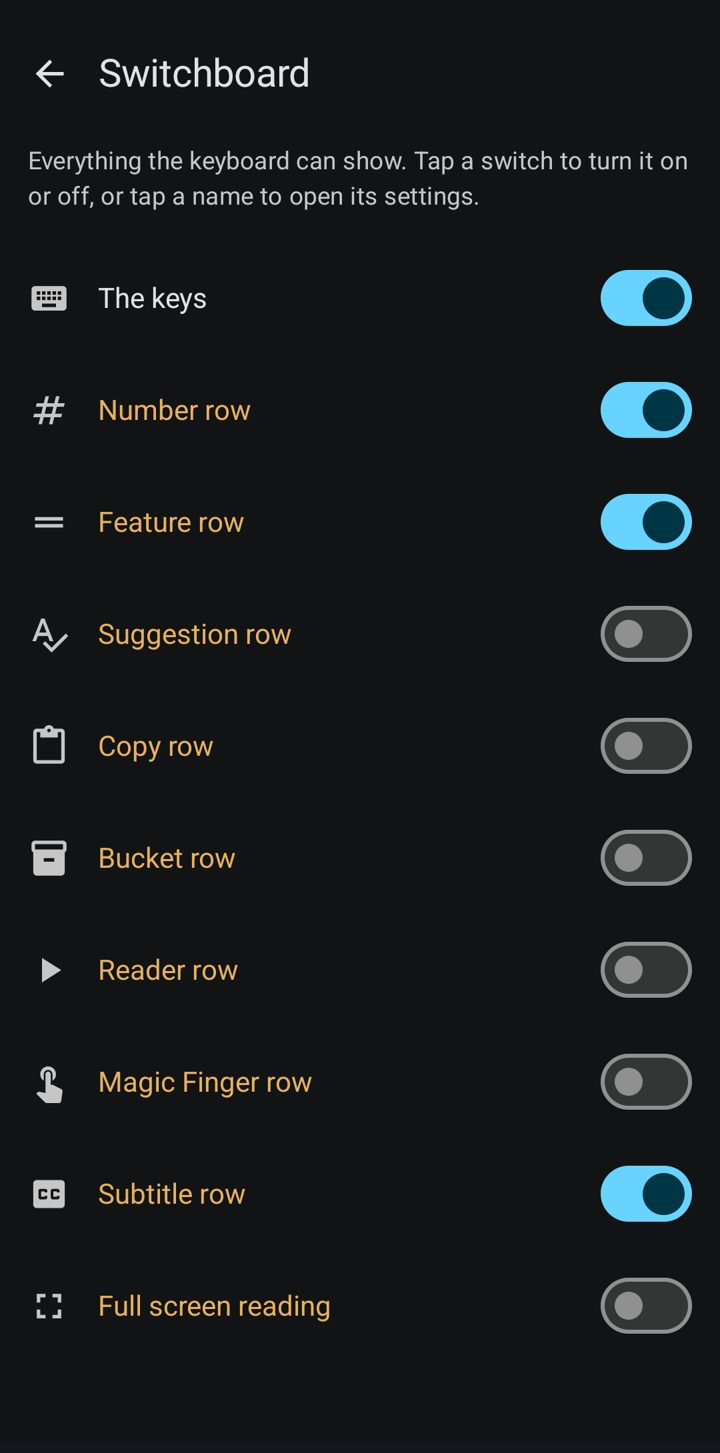
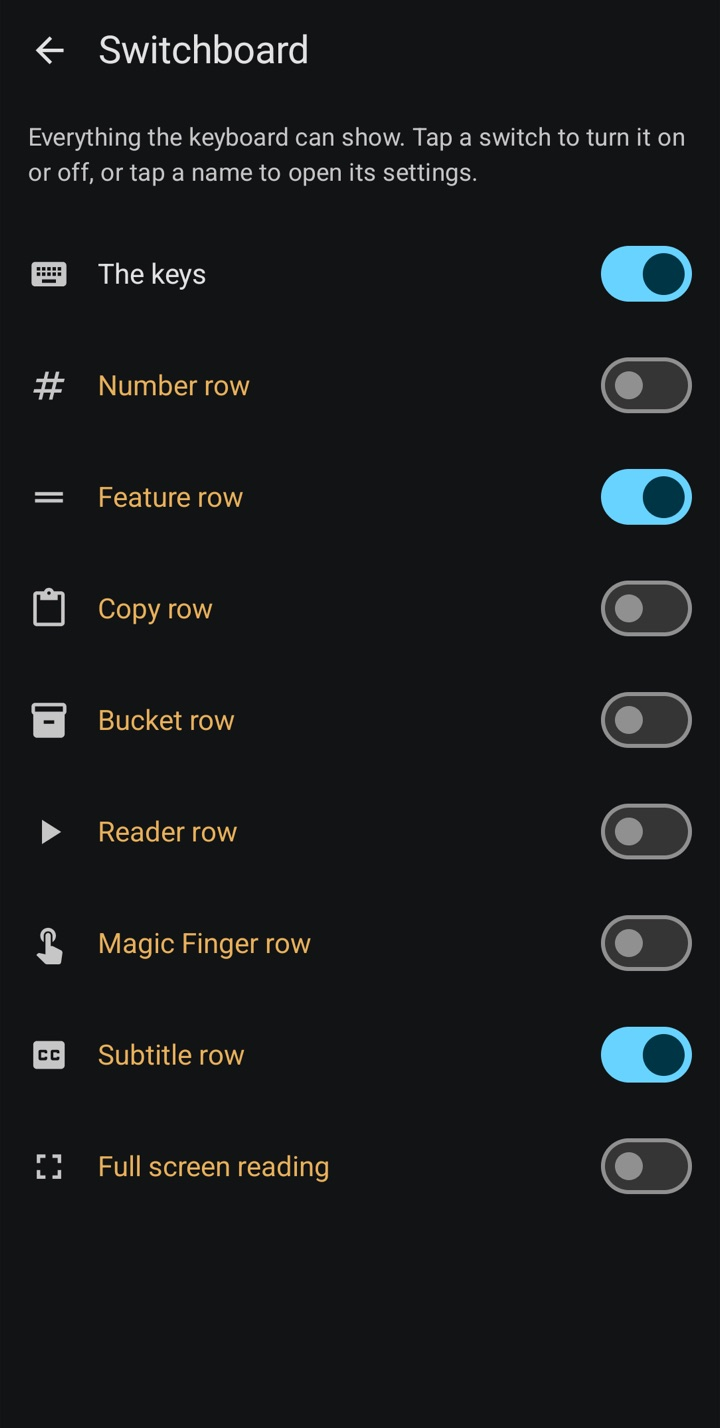
site: Auto prediction on the page, Switchboard picture of build 423 (no suggestion row switch)
Claude-Session: https://claude.ai/code/session_01NceKU9zW97FRmgJCXp2gXx

diff --git a/site/public/index.html b/site/public/index.html
@@ -81,7 +81,8 @@ footer{padding:40px 0 60px; color:var(--ink3); font-size:13.5px; border-top:1px 
 <div class="feat"><figure><img src="img/set-numrow.jpg" alt="Number row that types whole phrases" loading="lazy"></figure><div><h3>Number row that types whole phrases</h3><p>Each digit can carry a snippet: a symbol, a word, a whole sentence, typed with one long press.</p></div></div>
 <div class="feat"><figure><img src="img/set-reader.jpg" alt="It reads to you" loading="lazy"></figure><div><h3>It reads to you</h3><p>The speaker key reads what is on the screen aloud, with the current word lit in a subtitle row, on the spacebar, or full screen. Speed and text size are yours.</p></div></div>
 <div class="feat"><figure><img src="img/set-prompts.jpg" alt="Proofread and spell check" loading="lazy"></figure><div><h3>Proofread and spell check</h3><p>Ctrl+P proofreads, Ctrl+F reformats, and every Croatian dictation is checked for spelling before it is typed. You keep every wording of every prompt.</p></div></div>
-<div class="feat"><figure><img src="img/set-switch.jpg" alt="Everything in one switchboard" loading="lazy"></figure><div><h3>Everything in one switchboard</h3><p>The keys, the number row, the feature rows, the suggestion row, the copy row, the reader: one screen, one switch each.</p></div></div>
+<div class="feat"><figure><img src="img/set-switch.jpg" alt="Everything in one switchboard" loading="lazy"></figure><div><h3>Everything in one switchboard</h3><p>The keys, the number row, the feature rows, the copy row, the reader: one screen, one switch each. The prediction row is always there, so no key ever jumps.</p></div></div>
+<div class="feat"><figure><img src="img/set-predict.jpg" alt="Auto prediction" loading="lazy"></figure><div><h3>Auto prediction</h3><p>Word prediction in the language you are typing, Croatian or English, whatever the dictation key says. When the guesses are wrong, the AI key asks Claude for five words, on the model you choose: Haiku, Sonnet or Opus. Your corrections and the words it learned are on the same screen.</p></div></div>
 <div class="feat wide"><figure><img src="img/symbols.jpg" alt="Symbols, two pages" loading="lazy"></figure><div><h3>Symbols, two pages</h3><p>All the punctuation and symbols on two pages, one tap away from the letters.</p></div></div>
     </div>
   </div>
@@ -92,7 +93,7 @@ footer{padding:40px 0 60px; color:var(--ink3); font-size:13.5px; border-top:1px 
     <div class="eyebrow">And more</div>
     <h2>Small things that <em>save the day</em></h2>
     <div class="cards">
-<div class="card"><h3>Word prediction that learns you</h3><p>It learns the words you write, in Croatian and English separately. When you correct a word, it learns that it was a typo and offers what you meant next time; recent words rank above old ones.</p></div>
+<div class="card"><h3>Word prediction that learns you</h3><p>It learns the words you write, in Croatian and English separately. When you correct a word, it learns that it was a typo and offers what you meant next time; recent words rank above old ones. A word you fix in a dictation twice is fixed for you from then on.</p></div>
 <div class="card"><h3>Volume keys</h3><p>Hold volume up to record, hold volume down to press send. A quick tap still changes the volume.</p></div>
 <div class="card"><h3>Magic finger</h3><p>One key presses a button on the screen for you, like Send, found by its name.</p></div>
 <div class="card"><h3>History</h3><p>Every transcription is kept with its audio, and a recording cut short is saved, never lost.</p></div>
@@ -122,7 +123,7 @@ footer{padding:40px 0 60px; color:var(--ink3); font-size:13.5px; border-top:1px 
   <style>
     .mantra-bowl { --brass: #f3c97a; --glow: rgba(255, 196, 120, .45); --card: #292c2f; text-align: center; padding: 64px 16px; }
     .mantra-bowl h2 { margin: 0 0 26px; }
-    .mantra-bowl .stage { position: relative; display: grid; place-items: center; min-height: 380px; }
+    .mantra-bowl .stage { position: relative; display: grid; place-items: center; min-height: 380px; aspect-ratio: auto; background: none; overflow: visible; border-radius: 0; }
     .mantra-bowl .stage > * { grid-area: 1 / 1; transition: opacity .9s ease, transform .9s ease; }
     .mantra-bowl .bowl { background: none; border: 0; padding: 0; cursor: pointer; position: relative; color: inherit; font: inherit; -webkit-tap-highlight-color: transparent; }
     .mantra-bowl .bowl:focus-visible { outline: 2px solid var(--brass); outline-offset: 8px; border-radius: 24px; }

diff --git a/site/build.py b/site/build.py
@@ -6,7 +6,8 @@ screenshots through ADB and explain and ask for donations ... same principle").
 
     python3 site/build.py
 
-Screenshots in public/img were taken over adb on the Pixel 7 (build 410), with no private text or keys on them.
+Screenshots in public/img were taken over adb on the Pixel 7 (build 410), with no private text or keys on them;
+set-switch.jpg and set-predict.jpg on the Nothing Phone (build 423, 27.10.2026).
 The donation bowl is MANTRA_MANIFEST's kit, pasted in at build time. Deploy: Cloudflare Pages project "talktotype".
 """
 from pathlib import Path
@@ -27,12 +28,13 @@ FEATURES = [
     ("Number row that types whole phrases", "Each digit can carry a snippet: a symbol, a word, a whole sentence, typed with one long press.", "set-numrow.jpg", False),
     ("It reads to you", "The speaker key reads what is on the screen aloud, with the current word lit in a subtitle row, on the spacebar, or full screen. Speed and text size are yours.", "set-reader.jpg", False),
     ("Proofread and spell check", "Ctrl+P proofreads, Ctrl+F reformats, and every Croatian dictation is checked for spelling before it is typed. You keep every wording of every prompt.", "set-prompts.jpg", False),
-    ("Everything in one switchboard", "The keys, the number row, the feature rows, the suggestion row, the copy row, the reader: one screen, one switch each.", "set-switch.jpg", False),
+    ("Everything in one switchboard", "The keys, the number row, the feature rows, the copy row, the reader: one screen, one switch each. The prediction row is always there, so no key ever jumps.", "set-switch.jpg", False),
+    ("Auto prediction", "Word prediction in the language you are typing, Croatian or English, whatever the dictation key says. When the guesses are wrong, the AI key asks Claude for five words, on the model you choose: Haiku, Sonnet or Opus. Your corrections and the words it learned are on the same screen.", "set-predict.jpg", False),
     ("Symbols, two pages", "All the punctuation and symbols on two pages, one tap away from the letters.", "symbols.jpg", True),
 ]
 
 MORE = [
-    ("Word prediction that learns you", "It learns the words you write, in Croatian and English separately. When you correct a word, it learns that it was a typo and offers what you meant next time; recent words rank above old ones."),
+    ("Word prediction that learns you", "It learns the words you write, in Croatian and English separately. When you correct a word, it learns that it was a typo and offers what you meant next time; recent words rank above old ones. A word you fix in a dictation twice is fixed for you from then on."),
     ("Volume keys", "Hold volume up to record, hold volume down to press send. A quick tap still changes the volume."),
     ("Magic finger", "One key presses a button on the screen for you, like Send, found by its name."),
     ("History", "Every transcription is kept with its audio, and a recording cut short is saved, never lost."),
